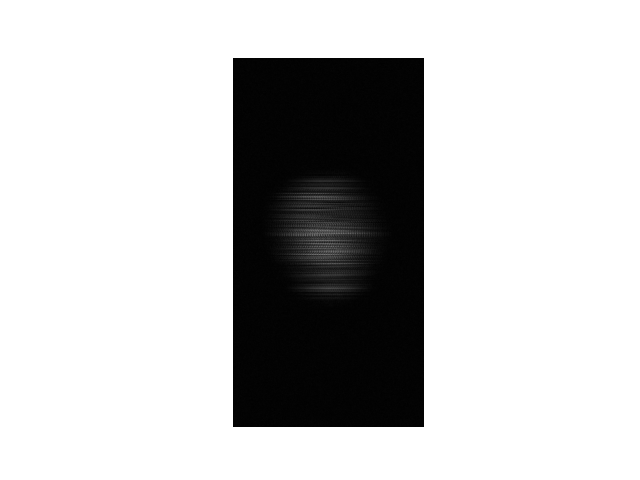
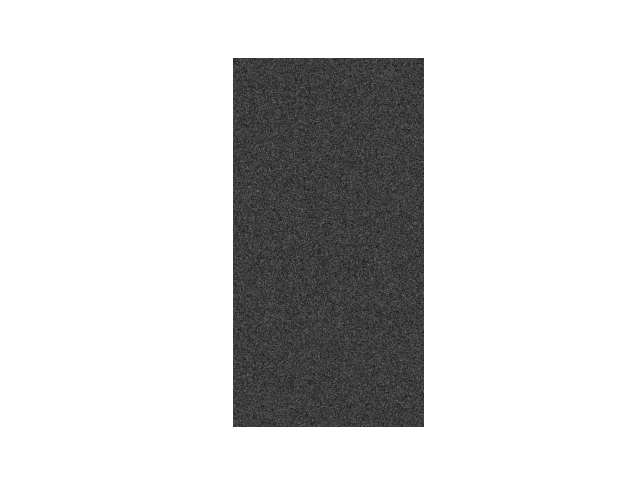
128 iterations

Changed region(s): [[0.3438, 0.0938, 0.6875, 0.9062]]

diff --git a/my_CDLNet/diff_model.py b/my_CDLNet/diff_model.py
@@ -28,7 +28,7 @@ args = parser.parse_args()
 class ImMAP(nn.Module):
     def __init__(self,  denoiser,       # Denoiser to embed image prior
                         beta = 0.05,    # Noise injection ratio, should belong in [0, 1]
-                        sigma_L = 0.005, # Noise level cutoff
+                        sigma_L = 0.001, # Noise level cutoff
                         h_0 = 0.01      # Initial step size
                         ):
         super(ImMAP, self).__init__()
@@ -52,7 +52,7 @@ class ImMAP(nn.Module):
         y = y + noise_level * torch.randn_like(y)
 
         with torch.no_grad():
-            while sigma_t > self.sigma_L:
+            while sigma_t > self.sigma_L or t < 128:
                 # Get jacobian and denoiser output
                 def denoise(x, sigma, f = self.denoiser):
                     x_hat, _ = f(x, sigma)
